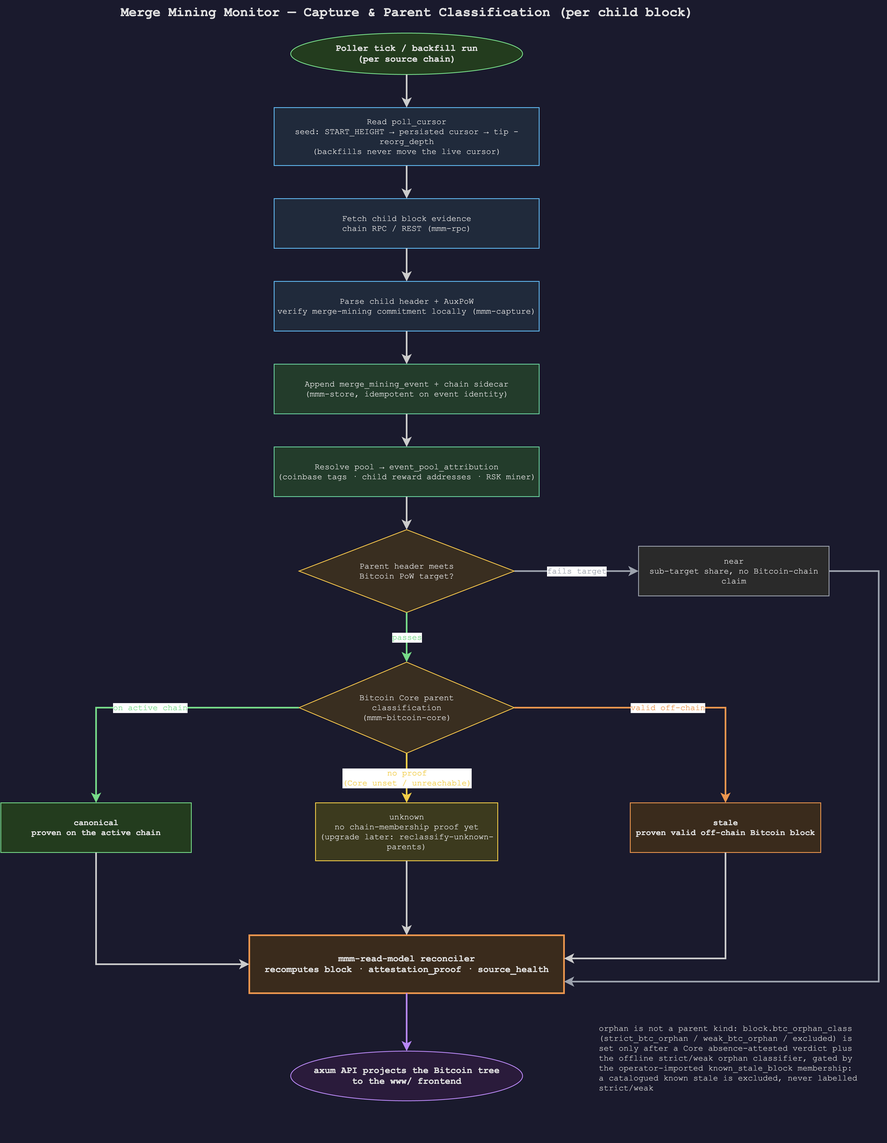
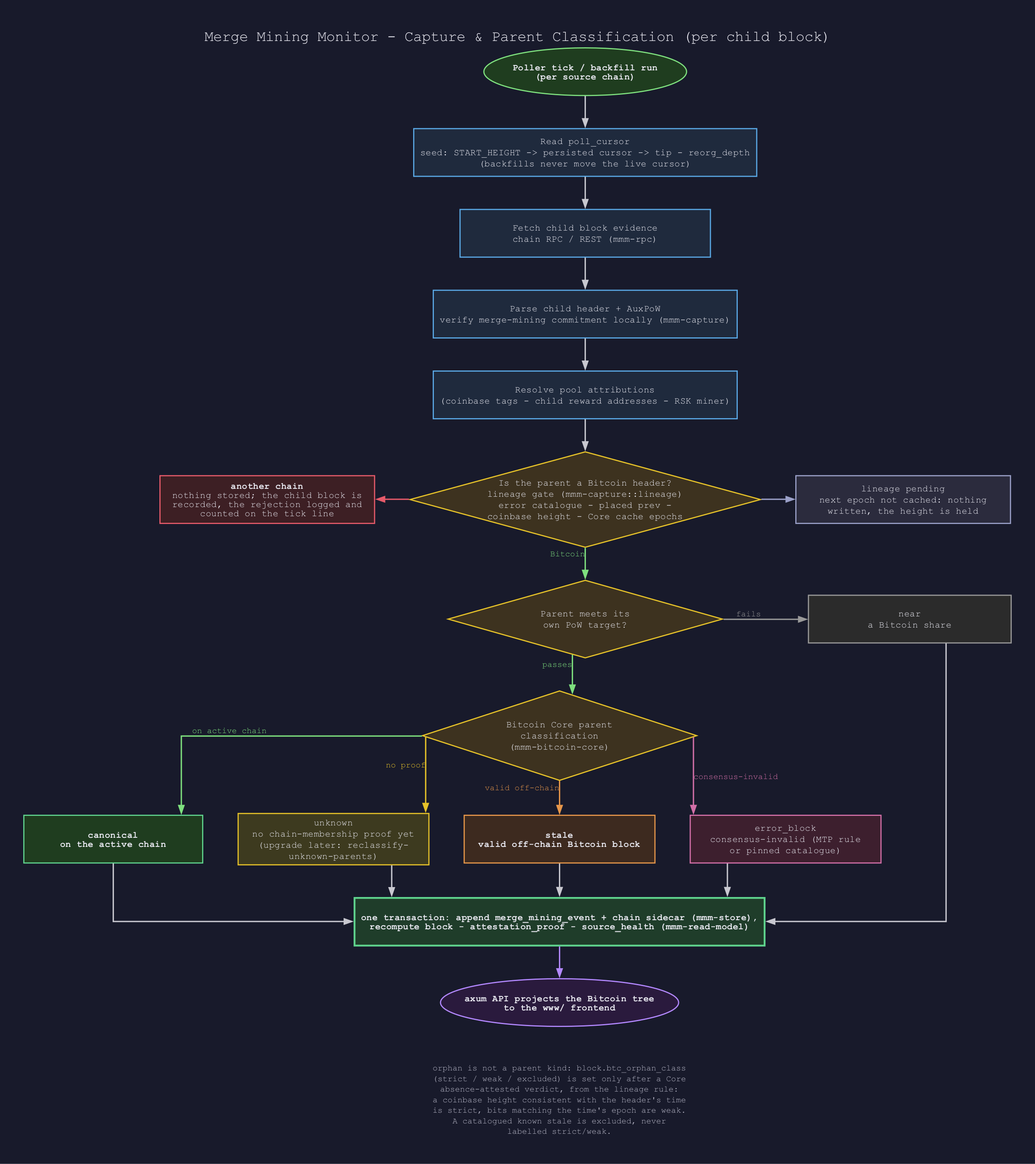
docs: describe the Bitcoin lineage gate
The data model, capture, API contract, tree semantics, importer and
product docs now say that every stored parent is a Bitcoin header and
that near and unknown mean a Bitcoin share and an unplaced Bitcoin
block. Capture gains a section on the gate: its rule, its three
outcomes and where refusals are counted. Operations documents the poll
tick's non_bitcoin counter and an acceptance check that judges a newly
activated source by its parent mix against Research.

The capture flow diagram gains the gate and its two exits and now has a
Graphviz source beside the PNG. The Terracoin profile records that most
of its parents are Bitcoin Cash headers (source registry regenerated),
the source-status tooltip names parents from other chains, and the
agent instructions forbid per-producer lineage checks.

diff --git a/www/js/source-registry.generated.js b/www/js/source-registry.generated.js
@@ -2103,12 +2103,13 @@ export const CHAIN_PROFILES = {
     "technical": {
       "mechanism": "Terracoin carries classic Namecoin-family `CAuxPow` in raw `getblock(hash, false)` bytes. The proof binds the child header through the parent coinbase and Merkle branches.[^5]",
       "uniqueness": "Terracoin is Dash-Core-derived rather than Bitcoin-Core-derived, but the Bitcoin evidence path is still familiar AuxPoW. Chain ID `0x0032` with `fStrictChainId=true` constrains the child-chain commitment, while Bitcoin proof of work, `nBits`, and Core placement decide whether the parent becomes Bitcoin evidence.[^1]",
-      "capture": "The shared live poller and bounded backfill verify mainnet identity, chain ID 50, the requested child hash and height, both Merkle commitments and the child target. Bitcoin Core-backed classification determines parent placement. Failed heights remain visible until successful replay. Historical publication imports are additive.",
+      "capture": "The shared live poller and bounded backfill verify mainnet identity, chain ID 50, the requested child hash and height, both Merkle commitments and the child target. Most Terracoin parents are Bitcoin Cash headers rather than Bitcoin ones; the shared lineage gate recognises them from Bitcoin's difficulty history and never stores them. Bitcoin Core-backed classification places the Bitcoin parents. Failed heights remain visible until successful replay. Historical publication imports are additive.",
       "bitcoin_relevance": "Terracoin provides independent witnesses of canonical and stale Bitcoin parents. Current Evidence Counts show admitted data; neither those counts nor the latest winner establish contiguous child-height coverage.",
       "notable": [
         "Strict chain-ID checking constrains the TRC commitment, but it does not replace Bitcoin parent validation.",
         "Raw block parsing preserves child coinbase evidence without imposing a Bitcoin-height ceiling.",
-        "The recovered window is an evidence boundary, not a claim that Terracoin stopped producing blocks."
+        "The recovered window is an evidence boundary, not a claim that Terracoin stopped producing blocks.",
+        "Most live parents are Bitcoin Cash blocks and shares; only Bitcoin-lineage parents are stored, so the Evidence Counts cover a minority of Terracoin blocks."
       ],
       "key_facts": [
         {

diff --git a/e2e/source-status.spec.js b/e2e/source-status.spec.js
@@ -380,7 +380,7 @@ test("renders source capture progress in the topbar, popover, and source rail", 
   );
   await expect(popover.locator(".source-status-header-help").nth(1)).toHaveAttribute(
     "title",
-    "Newest accepted AuxPoW evidence timestamp. This can be older than the live cursor when recent blocks are near shares or non-BTC parents.",
+    "Newest accepted AuxPoW evidence timestamp. This can be older than the live cursor when recent blocks yield no stored evidence: near shares the chain does not keep, or parents from other chains, which are never stored.",
   );
   await expect(popover).not.toContainText("Capture Cursor");
   await expect(popover).not.toContainText("live capture: live");

diff --git a/www/js/source-status.js b/www/js/source-status.js
@@ -33,7 +33,7 @@ const SOURCE_SYNC_MODE_META = {
 };
 const SOURCE_STATUS_HELP = {
   cursorUpdated: "When the progress cursor was last seeded or advanced. This is not a process heartbeat.",
-  latestEvidence: "Newest accepted AuxPoW evidence timestamp. This can be older than the live cursor when recent blocks are near shares or non-BTC parents.",
+  latestEvidence: "Newest accepted AuxPoW evidence timestamp. This can be older than the live cursor when recent blocks yield no stored evidence: near shares the chain does not keep, or parents from other chains, which are never stored.",
 };
 
 function normalizeSourceSync(source) {

diff --git a/docs/capture.md b/docs/capture.md
@@ -9,14 +9,15 @@ unavailable values remain `NULL`.
 ## Capture And Classification Flow
 
 <p align="center">
-  <img src="img/capture-classification-flow.png" width="820" alt="Per-child-block capture flow from poller cursor selection through AuxPoW verification, event storage, pool attribution, Bitcoin proof-of-work checks, Core classification, and read-model reconciliation" />
+  <img src="img/capture-classification-flow.png" width="820" alt="Per-child-block capture flow from poller cursor selection through AuxPoW verification, pool attribution, the Bitcoin lineage gate, the parent's own proof-of-work check, Core classification, and the event write with its read-model reconcile" />
 </p>
 
 For a live child block, the poller advances from cursor selection to source
-fetching, AuxPoW parsing, event insertion, sidecar insertion, and pool
-attribution. Parent classification starts with Bitcoin target validation and
-Bitcoin Core placement. Target failures become `near`; Core-known parents become
-`canonical` or `stale`. For a Core-absent target-valid parent with a known
+fetching, AuxPoW parsing and pool attribution. The capture then passes the
+[Bitcoin lineage gate](#bitcoin-lineage-gate): a parent that is not a Bitcoin
+header is never stored. Parent classification starts with the parent's own
+target and Bitcoin Core placement. Target failures become `near`; Core-known
+parents become `canonical` or `stale`. For a Core-absent target-valid parent with a known
 predecessor, the classifier verifies its expected `nBits` and reads the exact
 eleven linked predecessor headers to apply Bitcoin's median-time-past rule. A
 timestamp at or below that median becomes `error_block` with the
@@ -31,6 +32,51 @@ refinement of Core-absent `unknown`
 parents, not a separate parent kind, and it is gated by the operator-imported
 `known_stale_block` membership: a header catalogued as a known stale is
 `excluded` from strict/weak orphan classification rather than overclaimed.
+
+## Bitcoin Lineage Gate
+
+Merge mining lets a child chain commit to any SHA-256 parent, and a proof that
+verifies says nothing about whether the parent is a Bitcoin header. Bitcoin
+Cash blocks and shares, and other SHA-256 chains' blocks, verify just as well;
+most of Terracoin's parents are Bitcoin Cash headers. Every live capture
+therefore passes one gate in the shared seam, `mmm_read_model::capture_in_txn`,
+before classification or any Bitcoin Core call. It decides from local evidence
+under the shared Core-cache lock the capture already holds, using the rule in
+`mmm_capture::lineage`:
+
+1. A header in the pinned error catalogue is Bitcoin's (block 717,696 kept the
+   previous epoch's bits by design).
+2. A prev the Monitor has placed (a canonical, stale or error block, or the
+   Core cache's tip): a share is Bitcoin's whatever its bits, since pool
+   templates briefly keep the previous epoch's bits across a retarget; a
+   block must carry the epoch bits for the prev's height plus one.
+3. A strict BIP34 coinbase height consistent with the header's time must
+   carry that height's epoch bits. A height outside the epoch the time
+   selects falls to the next step, since another chain's heights run ahead
+   of Bitcoin's.
+4. Otherwise the bits must match the epoch the header's time selects or a
+   neighbour. A header newer than the cache must carry the latest epoch's
+   bits (or, for a share, the previous epoch's).
+
+A verdict that needs an epoch the cache has not reached (a block right after a
+retarget) is pending, and a coinbase height more than 144 blocks past the
+cache's tip is another chain's. A BIP34 mismatch alone never rejects.
+
+The capture returns `Written`, `NotBitcoin` or `LineagePending`. A foreign
+parent writes nothing, and any event the source already held for that child
+block is deleted in the same transaction, since a Core-cache change can turn a
+stored verdict. The producer still records the block as the chain's block at
+its height with a settled outcome, so a rescan does not capture it again. A
+pending parent writes nothing and holds the height: the live cursor stops
+there until a later tick's cache refresh decides it, and a bounded backfill
+stops with an error. Rejections are logged per block and counted on the
+`poll tick` line (`non_bitcoin`) and in backfill summaries
+(`non_bitcoin_parent`); nothing about them is stored.
+
+The same rule decides the strict/weak orphan class of Core-absent `unknown`
+parents, which the historical importer relies on: it stores unknown rows only
+with a strict or weak verdict, and a pinned publication aborts on any row it
+would skip.
 
 ## Live Sources
 
@@ -76,14 +122,13 @@ branch across the configured rescan depth, itself bounded at 32 blocks. A
 height with no captured block to hold it against records nothing. A response for another height than
 the one requested holds the height for a retry rather than counting it as
 processed; the position itself stays the endpoint's assertion, as it is for
-every captured event. A merge-mined block whose parent misses
-Bitcoin's target, the common case, is recorded without an event; a voided
+every captured event. A merge-mined block whose parent misses its
+own target, the common case, is recorded without an event, as is one whose
+parent the lineage gate refuses; a voided
 block names no replacement and records nothing; a non-merge-mined block
 carries no proof the producer verifies and is not recorded; the archive cache
 ingest (`backfill-hathor-cache`) replays a snapshot of the chain as it was and
-records nothing. A replaced or voided Hathor block is never revoked. The only
-Hathor revocations are a non-BTC parent and a classifier conflict, applied to
-the block the verdict was reached on.
+records nothing. A replaced or voided Hathor block is never revoked.
 
 RSK replays may refine role and optional proof fields, but an existing sidecar's
 block identity, height, miner, merge-mining hash, proof format, and any two
@@ -174,8 +219,9 @@ RSK's live acquisition floor of 139,999 records the historical capture boundary,
 not the first usable merge-mining proof or the RSKIP-92 format transition.
 Explicit bounded backfills can start below it. Capture accepts complete
 80-byte Bitcoin parent headers and skips fallback-signature payloads, evaluating
-each listed uncle independently. A parent header that fails the Bitcoin
-proof-of-work target is stored as `near`. Backfill summary fields
+each listed uncle independently. A Bitcoin parent header that fails its own
+proof-of-work target is stored as `near`; a parent from another chain is not
+stored, and `canonical_non_bitcoin` and `uncles_non_bitcoin` count them. Backfill summary fields
 `canonical_no_parent_header` and `uncles_no_parent_header` count skips lacking
 a complete parent header.
 
@@ -227,11 +273,10 @@ a complete parent header.
   timestamp coverage does
   not regress when a valid newer Core header has an older timestamp. Historical
   imports retain that lock across candidate validation and
-  the durable derived rebuild, so one import uses one table. Hathor and Elastos
-  retry once after a cache-horizon hold. The read-only API serves the persisted
-  cache without making Core RPC calls. A fresh Core tip also rejects a claimed
-  BIP34 height more than 144 blocks beyond it, even when a stale cache happens
-  to cover that height.
+  the durable derived rebuild, so one import uses one table. The read-only API
+  serves the persisted cache without making Core RPC calls. A parent whose
+  lineage waits on the next epoch is held and retried after the next tick's
+  refresh (see [Bitcoin Lineage Gate](#bitcoin-lineage-gate)).
 
 Terracoin also retains per-height RPC and operational failures as
 `height_capture_failed`. These share the public capture-error state and clear

diff --git a/crates/mmm-capture/README.md b/crates/mmm-capture/README.md
@@ -43,12 +43,13 @@ API.
 | Module | Responsibility |
 |--------|----------------|
 | `auxpow` | The AuxPoW wire-format layer: `parse_namecoin_block` (full `getblock 0` bytes), `parse_auxpow_header_blob` (Fractal `[header+CAuxPow]`), `parse_elastos_auxpow` (CAuxPow-only), `parse_qbit_extended_header` plus `qbit_extended_header_prefix` (the Qbit extended header, which is NOT a classic CAuxPow and has no `hashBlock`), the child-block coinbase enrichment, `verify_auxpow_commitment` (the full untrusted-endpoint CAuxPow check), PoW-target and BIP34 helpers, and the `evidence` facade (the sanctioned api -> capture decoding edge). Split into `decode`/`reader`/`verify` over a shared bounded byte `Reader`. |
-| `capture` | The chain-agnostic core: `NormalizedEventEvidence` -> `MergeMiningEventPayload` via `build_event_payload_from_evidence`, the `EventPoolAttribution` provenance type and its constructors, and the offline pool-attribution resolvers. `capture::sidecars` holds the per-chain data formats (RSK/Hathor evidence sidecar payloads, proof-format and revoke-reason constants), re-exported at `capture::*`. |
+| `capture` | The chain-agnostic core: `NormalizedEventEvidence` -> `MergeMiningEventPayload` via `build_event_payload_from_evidence`, the `EventPoolAttribution` provenance type and its constructors, and the offline pool-attribution resolvers. `capture::sidecars` holds the per-chain data formats (RSK/Hathor evidence sidecar payloads, proof-format constants), re-exported at `capture::*`. |
 | `attribution_policy` | The shared keyed write-decision policy for child-side attribution replays: `ExistingAttributionSet` keyed by `(namespace, matched_value)` with a full-tuple equality check, and `WritePolicy` for the per-replay overwrite-vs-promote-only rule. |
 | `child_payout` | Chain-aware child payout/reward address formatting (Namecoin, Syscoin, Fractal) with each chain's own address parameters, deliberately NOT Bitcoin address formatting. |
 | `pool_resolver` | Offline pool attribution from two embedded registries: `btc` (BTC coinbase-tag substring + payout-address resolution over `data/pools/current.json`) and `identity` (RSK miner-address resolution over `data/pools/child-identities/rsk_miner_registry.json`), sharing `error` and the `validate_non_empty` helper. |
-| `btc_orphan` | The pure BTC orphan classifier: maps a Core-attested-absent, PoW-valid `unknown` parent into strict/weak/excluded, or pending when the injected Core-header cache cannot yet decide. The Core non-membership gate lives in the read model, not here. |
-| `nbits_table` | Builds strict (BIP34-height) and weak (timestamp) contamination verdicts from the injected sparse Core header cache. It contains no embedded Bitcoin chain history. Horizon overruns hold capture rather than misclassify. |
+| `lineage` | The Bitcoin lineage rule `bitcoin_lineage`: whether a parent header is Bitcoin's, from its placed prev, its coinbase height and the injected Core header cache, or pending until the cache reaches the next epoch. The capture gate that applies it lives in the read model. |
+| `btc_orphan` | The pure BTC orphan classifier, a projection of the lineage rule: maps a Core-attested-absent, PoW-valid `unknown` parent into strict/weak/excluded, or pending when the injected Core-header cache cannot yet decide. The Core non-membership gate lives in the read model, not here. |
+| `nbits_table` | The epoch table built from the injected sparse Core header cache: expected bits by height, the epoch a timestamp selects, and the weak timestamp verdict the lineage rule reads. It contains no embedded Bitcoin chain history. |
 | `core_coinbase` | Bitcoin Core full-block coinbase pool resolution, shared between the Core write paths and the enrichment command. |
 | `source_registry` | `SOURCE_REGISTRY` defines every `source` row (permanent id/code/chain/kind/lifecycle), its child-target location, and the `*_SOURCE_CODE` constants. Bound bidirectionally to the producers' `chains::spec` table by a conformance test; feature-gated `generate` deterministically emits the seed SQL and frontend JS. |
 | `pool_snapshot_gen` | The feature-gated, pure, unit-tested generator behind `data/pools/current.json` (field map, slug remap, deterministic ordering, byte-stable JSON, churn diff). The committed `current.json` is `include_str!`-embedded and never hand-edited. |

diff --git a/docs/data-model.md b/docs/data-model.md
@@ -25,10 +25,19 @@ tree view from that evidence.
 
 ## Parent Classification
 
+Every stored parent is a Bitcoin header. Merge mining lets a child chain
+commit to any SHA-256 parent, so a proof that verifies says nothing about
+the parent's chain: a Bitcoin Cash block or share, or another SHA-256 chain's
+block, verifies just as well. The capture lineage gate
+(`mmm_capture::lineage::bitcoin_lineage`, applied in
+`mmm_read_model::capture_in_txn`) refuses such a parent before anything is
+written, and the event is never stored. See [Capture](capture.md#bitcoin-lineage-gate).
+
 `btc_parent_kind` is one of:
 
-- `near` - parent header fails Bitcoin target validation.
-- `unknown` - parent header passes target validation, but no Bitcoin-chain
+- `near` - a Bitcoin share: the parent is a Bitcoin header that fails its own
+  target.
+- `unknown` - a Bitcoin header that meets its own target, but no Bitcoin-chain
   membership proof is available.
 - `canonical` - Bitcoin Core proves the parent is on the active chain.
 - `stale` - Bitcoin Core proves the parent is a valid off-chain Bitcoin block.
@@ -43,7 +52,10 @@ tree view from that evidence.
 Orphan status is not a `btc_parent_kind`. It is the derived
 `block.btc_orphan_class` (`strict_btc_orphan`, `weak_btc_orphan`, or
 `excluded`; NULL while pending), set only after a Core-absence-attested verdict
-and the Core-cache-backed strict/weak orphan classifier. A verdict attests
+and the Core-cache-backed strict/weak orphan classifier, which reads the
+lineage rule: a coinbase height consistent with the header's time and its
+epoch's bits is strict evidence, bits matching the time's epoch are weak
+evidence, and a header newer than the cache waits for it. A verdict attests
 absence only when the candidate was found absent and every further consensus
 lookup completed or found nothing; a lookup the lenient live policy tolerated
 leaves the row pending for the next recheck. A header on a placed Bitcoin prev
@@ -313,16 +325,18 @@ failures on new and rescanned heights; see `docs/capture.md`.
 - A transient classifier `unknown` never demotes a previously proven canonical
   or stale row.
 - Bad evidence is removed with explicit event revocation, then the read model
-  recomputes the affected parent state.
+  recomputes the affected parent state. A parent that stops being a Bitcoin
+  header after a Core-cache change is not revoked: the next capture of its
+  child block deletes the event, and a block or proof no evidence attests any
+  more is deleted with it.
 - A child-chain reorg is not bad evidence. The schema records a displaced
   child block with `child_displaced_at` and `child_displaced_by` so the
   event can stay active for Bitcoin-side state. Every live producer except
   RSK writes those columns for the heights it processes; RSK's heights hold
-  several blocks by design and it keeps its own rescan. A verdict that
-  revokes evidence (a non-BTC parent or a classifier conflict) is scoped to
-  the block it was reached on, never to every event at the height; a block
-  is its hash, or for a hashless historical row its height and Bitcoin
-  parent.
+  several blocks by design and it keeps its own rescan. A lineage verdict
+  that removes evidence is scoped to the block it was reached on, never to
+  every event at the height; a block is its hash, or for a hashless
+  historical row its height and Bitcoin parent.
 - Bitcoin Core backbone rows are written by `sync-bitcoin-core` and are required
   for tree windows the UI should browse.
 
@@ -347,6 +361,8 @@ and `0025_retire_pending_supersede.sql` drops the `supersede` kind of
 `poll_pending_reconcile` with its payload columns.
 `0030_capture_failure_kind.sql` extends capture-error diagnostics to per-height
 operational failures without changing the public error code or source identity.
+`0031_drop_hathor_expected_btc_nbits.sql` drops the Hathor sidecar's
+`expected_btc_nbits`, which only Hathor's retired private lineage check wrote.
 
 `0007_support_partial_child_evidence.sql` makes child evidence nullable, adds
 authenticated child header and `nBits` storage, replaces the old composite

diff --git a/crates/mmm-store/README.md b/crates/mmm-store/README.md
@@ -40,12 +40,12 @@ Shared, table-generic modules:
 
 | Module | Responsibility |
 |--------|----------------|
-| `event` | Exact/partial `merge_mining_event` identity resolution and store-owned write dispositions, lossless parent-coinbase evidence upserts, `historical_event_provenance`, the `event_pool_attribution` provenance writes (with and without stale-attribution cleanup), and NULL-preserving evidence fill. |
+| `event` | Exact/partial `merge_mining_event` identity resolution and store-owned write dispositions, the child-block event delete a refused parent retracts, lossless parent-coinbase evidence upserts, `historical_event_provenance`, the `event_pool_attribution` provenance writes (with and without stale-attribution cleanup), and NULL-preserving evidence fill. |
 | `pool` | Pool snapshot upserts, the generic registry-only pool seeding, and the namespace `pool_identity` seeding and lookup helper. |
 | `poll_cursor` | The `poll_cursor` live-progress table: source-id lookup, cursor load, and monotonic upsert (with optional observed target). Backfills never move the cursor. |
-| `pending_reconcile` | The pending-reconcile work-queue rows: list, upsert, attempt-bump, revocation-reason retag, and delete. |
+| `pending_reconcile` | The pending-reconcile work-queue rows: list, upsert, attempt-bump, and delete. |
 | `capture_error` | The producer-owned `capture_error` table: record (upsert preserving `first_seen_at`) and clear one `(source_id, height)`. The monotonic `poll_cursor` cannot express a gap, and `source_health` is derived, so a held height lives here. |
-| `bitcoin_core_header` | Sparse canonical Bitcoin Core header cache: record/replace, shared/exclusive locks, integrity errors, and the read-only nBits-table loader used by reconciliation and the API. |
+| `bitcoin_core_header` | Sparse canonical Bitcoin Core header cache: record/replace, shared/exclusive locks, integrity errors, the cached-header lookup that places a prev, and the read-only nBits-table loader used by the lineage gate, reconciliation and the API. |
 | `known_stale` | Operator-imported `known_stale_block` membership: upsert, count, and hash lookup for the orphan-classification exclusion gate. |
 | `historical_import` | Read-only publication/base-event streams and finalization-state queries used to plan historical imports without writing. |
 | `child_displacement` | Per-height child-chain block records and locks: which block the child currently carries, and the displace/restore transition. |
@@ -56,7 +56,7 @@ Per-chain modules under `chains/` (each chain's SQL in one place):
 |--------|----------------|
 | `chains::rsk` | The RSK event + `rsk_merge_mining_evidence` sidecar capture writer, the RSK pool / `pool_identity` adapters over the `pool` helpers, and the `rsk_merge_mining_evidence.pool_identity_id` late-fill helper. |
 | `chains::hathor` | The Hathor event + `hathor_merge_mining_evidence` sidecar capture writer, the per-height event read, and the DB-only reward-address replay loads / audit updates. |
-| `chains::elastos` | The Elastos event-row-only capture writer (no sidecar; scoped revoke/reactivate) and the per-height active-event read. |
+| `chains::elastos` | The Elastos identity re-resolution page load; Elastos captures write the shared event row only. |
 
 ## See also
 

diff --git a/crates/mmm-producers/README.md b/crates/mmm-producers/README.md
@@ -49,7 +49,7 @@ Cross-cutting modules:
 | `chains::auxpow_family` + `chains::bitcoind_rpc` | The shared bitcoind-family capture/poll/backfill runner and the one thin JSON-RPC client serving Namecoin, Syscoin, Fractal, and Qbit. `auxpow_family::qbit` is the Qbit format adapter: extended-header prefix split, native-placement authentication, and the projection into `NormalizedEventEvidence`. The runner also owns the per-spec malformed-proof policy and the `capture_error` writes it implies. |
 | `poller` | The crate-internal `ChainPoller` trait and the generic `Poller<C>` driver: cursor seeding, the trailing rescan window, batch advance, startup read-model repair, shutdown, and bounded tip-fetch retry. |
 | `bitcoin_core_backbone` | The durable Bitcoin spine sync (one-shot batch plus the follow daemon), the live-tip window maintenance, and the structural integrity guards in `integrity.rs`. |
-| `producer_runtime` | The shared runtime: `ProducerRuntime` (`PG*` + `BITCOIN_RPC_*`), the composed `ProducerContext`, `connect_from_env`, the post-backfill repair hook, and the classifier-enabled-backfill warning. |
+| `producer_runtime` | The shared runtime: `ProducerRuntime` (`PG*` + `BITCOIN_RPC_*`), the composed `ProducerContext` (whose `capture` goes through the shared lineage-gated seam and counts refused parents for the tick line), `connect_from_env`, the post-backfill repair hook, and the classifier-enabled-backfill warning. |
 | `historical_ingest` | Uniform CSV-backed historical evidence ingest with zero public-API calls. Its `csv_source` parser preserves lossless parent-coinbase evidence, while the runner commits base snapshots before bounded read-model work drains from the durable historical queue. |
 
 Per-chain divergent modules under `chains/`:
@@ -57,7 +57,7 @@ Per-chain divergent modules under `chains/`:
 | Module | Responsibility |
 |--------|----------------|
 | `chains::rsk` | RSKj `eth_*` capture with canonical-plus-uncle traversal and RLP child headers, plus the DB-only miner-identity reclassification tail (`identity_reresolve`). |
-| `chains::hathor` | Public-REST capture with reconstructed coinbase and nBits-horizon hold semantics, the cache-backed historical ingest, and the reward-address replay (`reward_replay`). |
+| `chains::hathor` | Public-REST capture with reconstructed coinbase and the displacement work floor, the cache-backed historical ingest, and the reward-address replay (`reward_replay`). |
 | `chains::elastos` | Dual-endpoint self-verifying capture with RPC-observed reward and minerinfo identities. |
 
 Cross-chain pool repair stays at the crate root as `reclassify_pools`. Parent

diff --git a/docs/operations.md b/docs/operations.md
@@ -215,7 +215,9 @@ source as live. The same applies after any controlled cursor reset.
 
 Every poll tick, whether it processed a window, found none, or failed, logs
 one `poll tick` line with the cursor, tip, the heights rescanned and new (as
-far as a failed tick got), whether any height answered with a hold, the
+far as a failed tick got), whether any height answered with a hold, how many
+child blocks the lineage gate refused for a parent from another chain
+(`non_bitcoin`, never stored; `docs/capture.md`, "Bitcoin Lineage Gate"), the
 duration of the whole tick (Core-cache refresh, pending work, tip
 fetch, capture and cursor persistence), and each RPC client's counters as
 deltas over that tick, the child chain's and Bitcoin Core's, for example
@@ -233,6 +235,16 @@ attempts of its own. Retries and failures are the client's retry loop's own,
 and a failure is a call that gave up. From the production host every remote
 call costs about 340 ms, so `attempts` per tick or per height is the first
 number to read when a job is slower than expected.
+
+Accept a newly activated live source by its parent mix, not only by its
+cursor. The first ticks should show `non_bitcoin` counts in line with the
+chain's known parents (most Terracoin parents are Bitcoin Cash headers, so most
+of its ticks refuse some) and no open `capture_error` rows. Then compare the
+source's `counts` in `/api/v1/sources` (near, unknown, strict and weak
+orphans) with the Research publication's classification counts over the
+overlapping heights. Unknown or near counts that grow where Research records
+none for the same heights mean parents are being stored that should not be:
+stop the poller before they spread and investigate.
 
 A Qbit backfill exits non-zero when any height in the range holds an unresolved
 capture error. The written evidence and the read-model repair still complete;
@@ -507,7 +519,8 @@ Activate in this order, through the backup-first release workflow:
 5. Remove the override only after hash(C) has appeared in `child_chain_head`
    (the overlap tick captured C) and no `capture_error` rows are open; the
    cursor is not that proof. Then restart and verify normal cursor-based
-   resume. A first start without the override seeds at the node tip and leaves
+   resume. Accept the source by its parent mix (see Live Capture). A first
+   start without the override seeds at the node tip and leaves
    a gap no counter shows, and a pre-existing high cursor cannot prove the
    overlap ran, because cursor persistence uses GREATEST.
 

diff --git a/CHANGELOG.md b/CHANGELOG.md
@@ -6,6 +6,30 @@ This changelog starts with the initial release.
 
 ## [Unreleased]
 
+- Refuse AuxPoW parents that are not Bitcoin headers. Merge mining lets a
+  child chain commit to any SHA-256 parent, so Bitcoin Cash blocks and shares
+  and other chains' blocks were stored as Bitcoin `near` shares and `unknown`
+  blocks; most of Terracoin's parents are Bitcoin Cash headers. Every live
+  capture now passes one lineage gate in the shared capture seam before
+  classification or any Bitcoin Core call. It decides from the error
+  catalogue, the parent's placed prev, its coinbase height and the Core
+  header cache's epochs. A refused parent is never stored, and an event an
+  earlier capture held for that child block is deleted. A parent whose
+  lineage needs an epoch the cache has not reached holds the height. Poll
+  ticks and backfill summaries count refusals (`non_bitcoin`,
+  `non_bitcoin_parent`).
+- Delete a derived block and its AuxPoW proofs once no evidence attests
+  them, instead of keeping an empty `unknown` block.
+- Classify BTC orphans with the same lineage rule. A coinbase height outside
+  the epoch the header's time selects falls to the time rule instead of
+  leaving the row pending, as Research's classifier orders it.
+- Replace the private Elastos and Hathor lineage checks, their fresh-tip
+  horizon gates and their reversible non-BTC and classifier-conflict
+  revocations with the shared gate. Migration `0031` drops the Hathor
+  sidecar's `expected_btc_nbits`, which only that check wrote.
+- `difficulty_epoch_ok` is now only `true` or `null`: a bits mismatch against
+  a would-be competitor leaves the parent `unknown` without recording `false`.
+
 ## [0.9.0] - 2026-09-29
 
 - Add Terracoin live capture through the shared AuxPoW runner, keeping source

diff --git a/docs/architecture.md b/docs/architecture.md
@@ -114,11 +114,11 @@ that annotate those rows.
 | Crate | Role |
 |---|---|
 | `mmm-pg` | Postgres connection configuration. No domain SQL. |
-| `mmm-capture` | Offline parsing, normalization, pool resolution, source registry, and Bitcoin nBits/orphan helpers. No network or database I/O in normal builds. |
+| `mmm-capture` | Offline parsing, normalization, pool resolution, source registry, and the Bitcoin lineage rule with its nBits and orphan helpers. No network or database I/O in normal builds. |
 | `mmm-rpc` | Shared HTTP transport policy for child-chain clients. |
 | `mmm-bitcoin-core` | The only crate that links `corepc-client`; wraps Bitcoin Core RPC and parent classification. |
 | `mmm-store` | SQL for producer base tables: events, sidecars, cursors, capture errors, and seed helpers. It also exposes the read-only Core-header-cache loader shared by reconciliation and the API. |
-| `mmm-read-model` | Sole writer of derived tables: `block`, `attestation_proof`, and `source_health`. |
+| `mmm-read-model` | Sole writer of derived tables: `block`, `attestation_proof`, and `source_health`. Owns the shared capture seam (`capture_in_txn`) and its Bitcoin lineage gate. |
 | `mmm-producers` | Runtime engines: chain pollers/backfills, historical importer, Bitcoin Core backbone sync, and pool reclassification. |
 | `mmm-api` | Read-only API views plus static frontend serving. |
 | `merge-mining-monitor` | CLI wiring, generator binaries, and cross-crate integration tests. |

diff --git a/docs/api-contract.md b/docs/api-contract.md
@@ -564,18 +564,23 @@ Response arrays use stable ordering:
 : One of `near`, `unknown`, `canonical`, or `stale`.
 
 `near`
-: Parent header satisfies the child-chain AuxPoW target but fails Bitcoin
-  target.
+: A Bitcoin share: the parent is a Bitcoin header that satisfies the
+  child-chain AuxPoW target but fails its own target.
 
 `unknown`
-: Parent header passes Bitcoin target, but Bitcoin-chain proof has not yet
-  classified it as canonical or stale.
+: A Bitcoin header that meets its own target, but Bitcoin-chain proof has
+  not yet classified it as canonical or stale.
 
 `canonical`
 : Parent header is on the active Bitcoin chain.
 
 `stale`
 : Parent header is Bitcoin-valid but not on the active chain.
+
+Every parent the API serves is a Bitcoin header. A parent from another SHA-256
+chain (a Bitcoin Cash block or share, for instance) is refused at capture and
+never stored, so it appears in no count or projection (`docs/capture.md`,
+"Bitcoin Lineage Gate").
 
 `stale_branch`
 : One or more stale blocks linked by parent-child edges, with branch depth,
